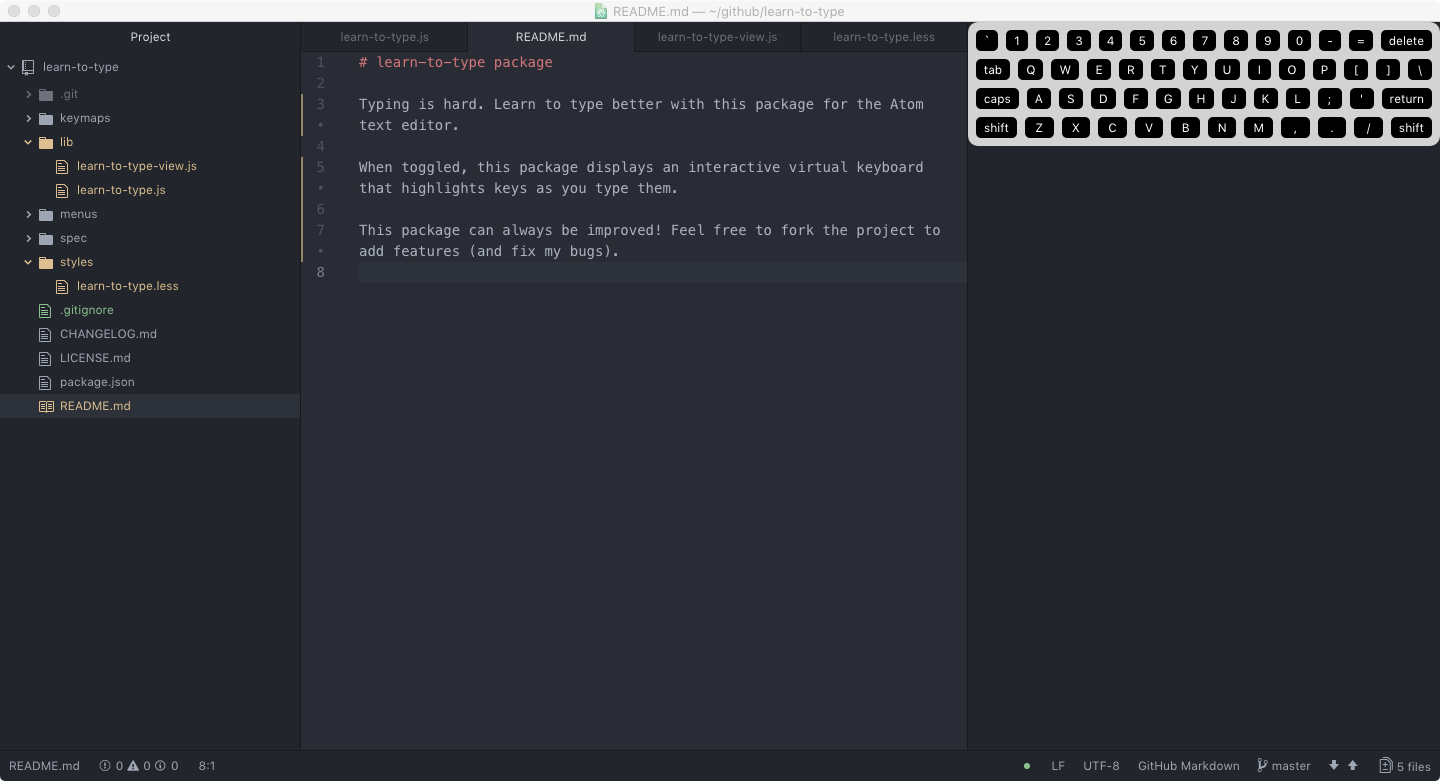
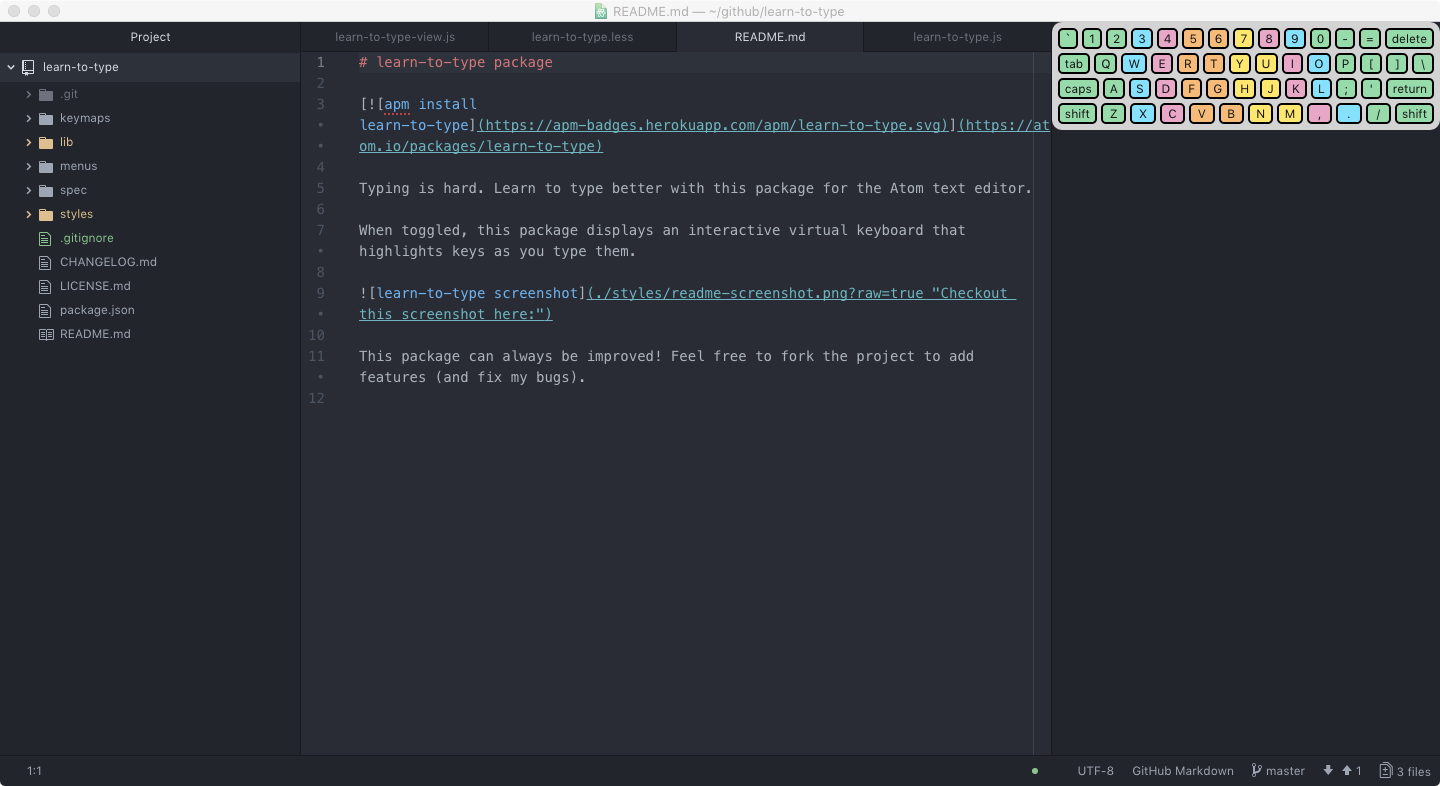
Update readme with colorful keyboard

diff --git a/lib/learn-to-type-view.js b/lib/learn-to-type-view.js
@@ -31,7 +31,7 @@ export default class LearnToTypeView {
         console.log(key);
         var keyDiv = document.createElement('div');
         keyDiv.id = key[0];
-        keyDiv.setAttribute('style', 'flex:'+key[1]+';');
+        keyDiv.setAttribute('style', 'flex: '+key[1]+';');
         keyDiv.textContent = key[2];
         keyDiv.classList.add('keypad');
         keyDiv.classList.add(key[3]);

diff --git a/styles/learn-to-type.less b/styles/learn-to-type.less
@@ -21,7 +21,7 @@
 }
 .keypad {
   margin: 2px;
-  padding: 0px 4px;
+  padding: 0px 5px;
   text-align: center;
   color: @keypadText;
   border-radius: 5px;
